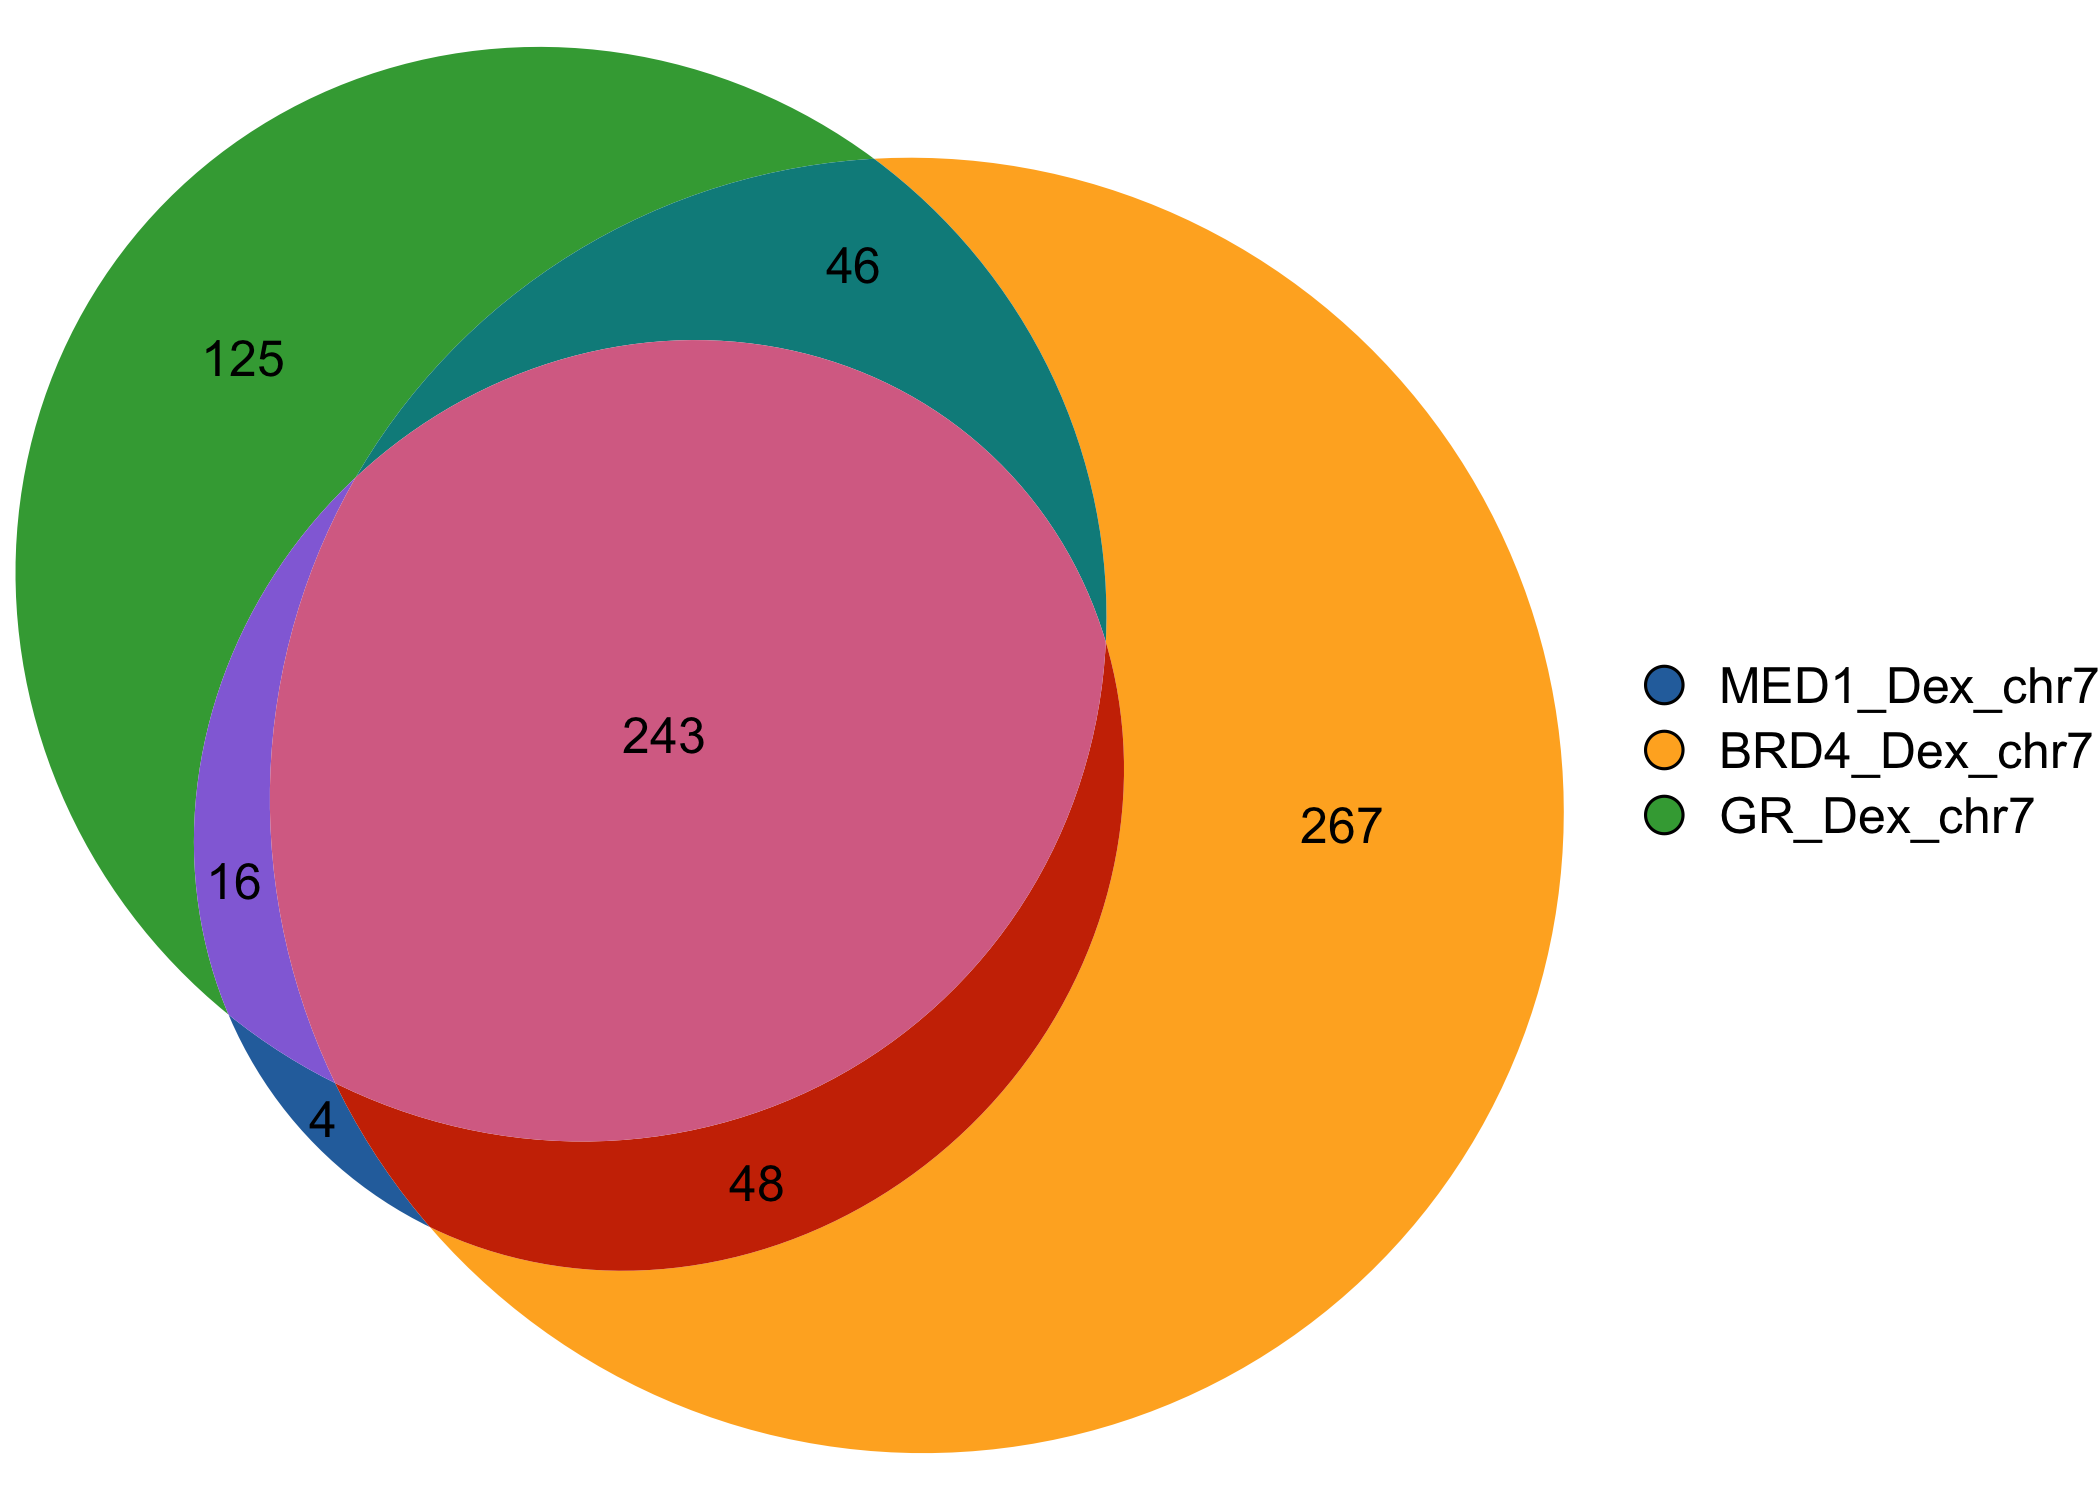
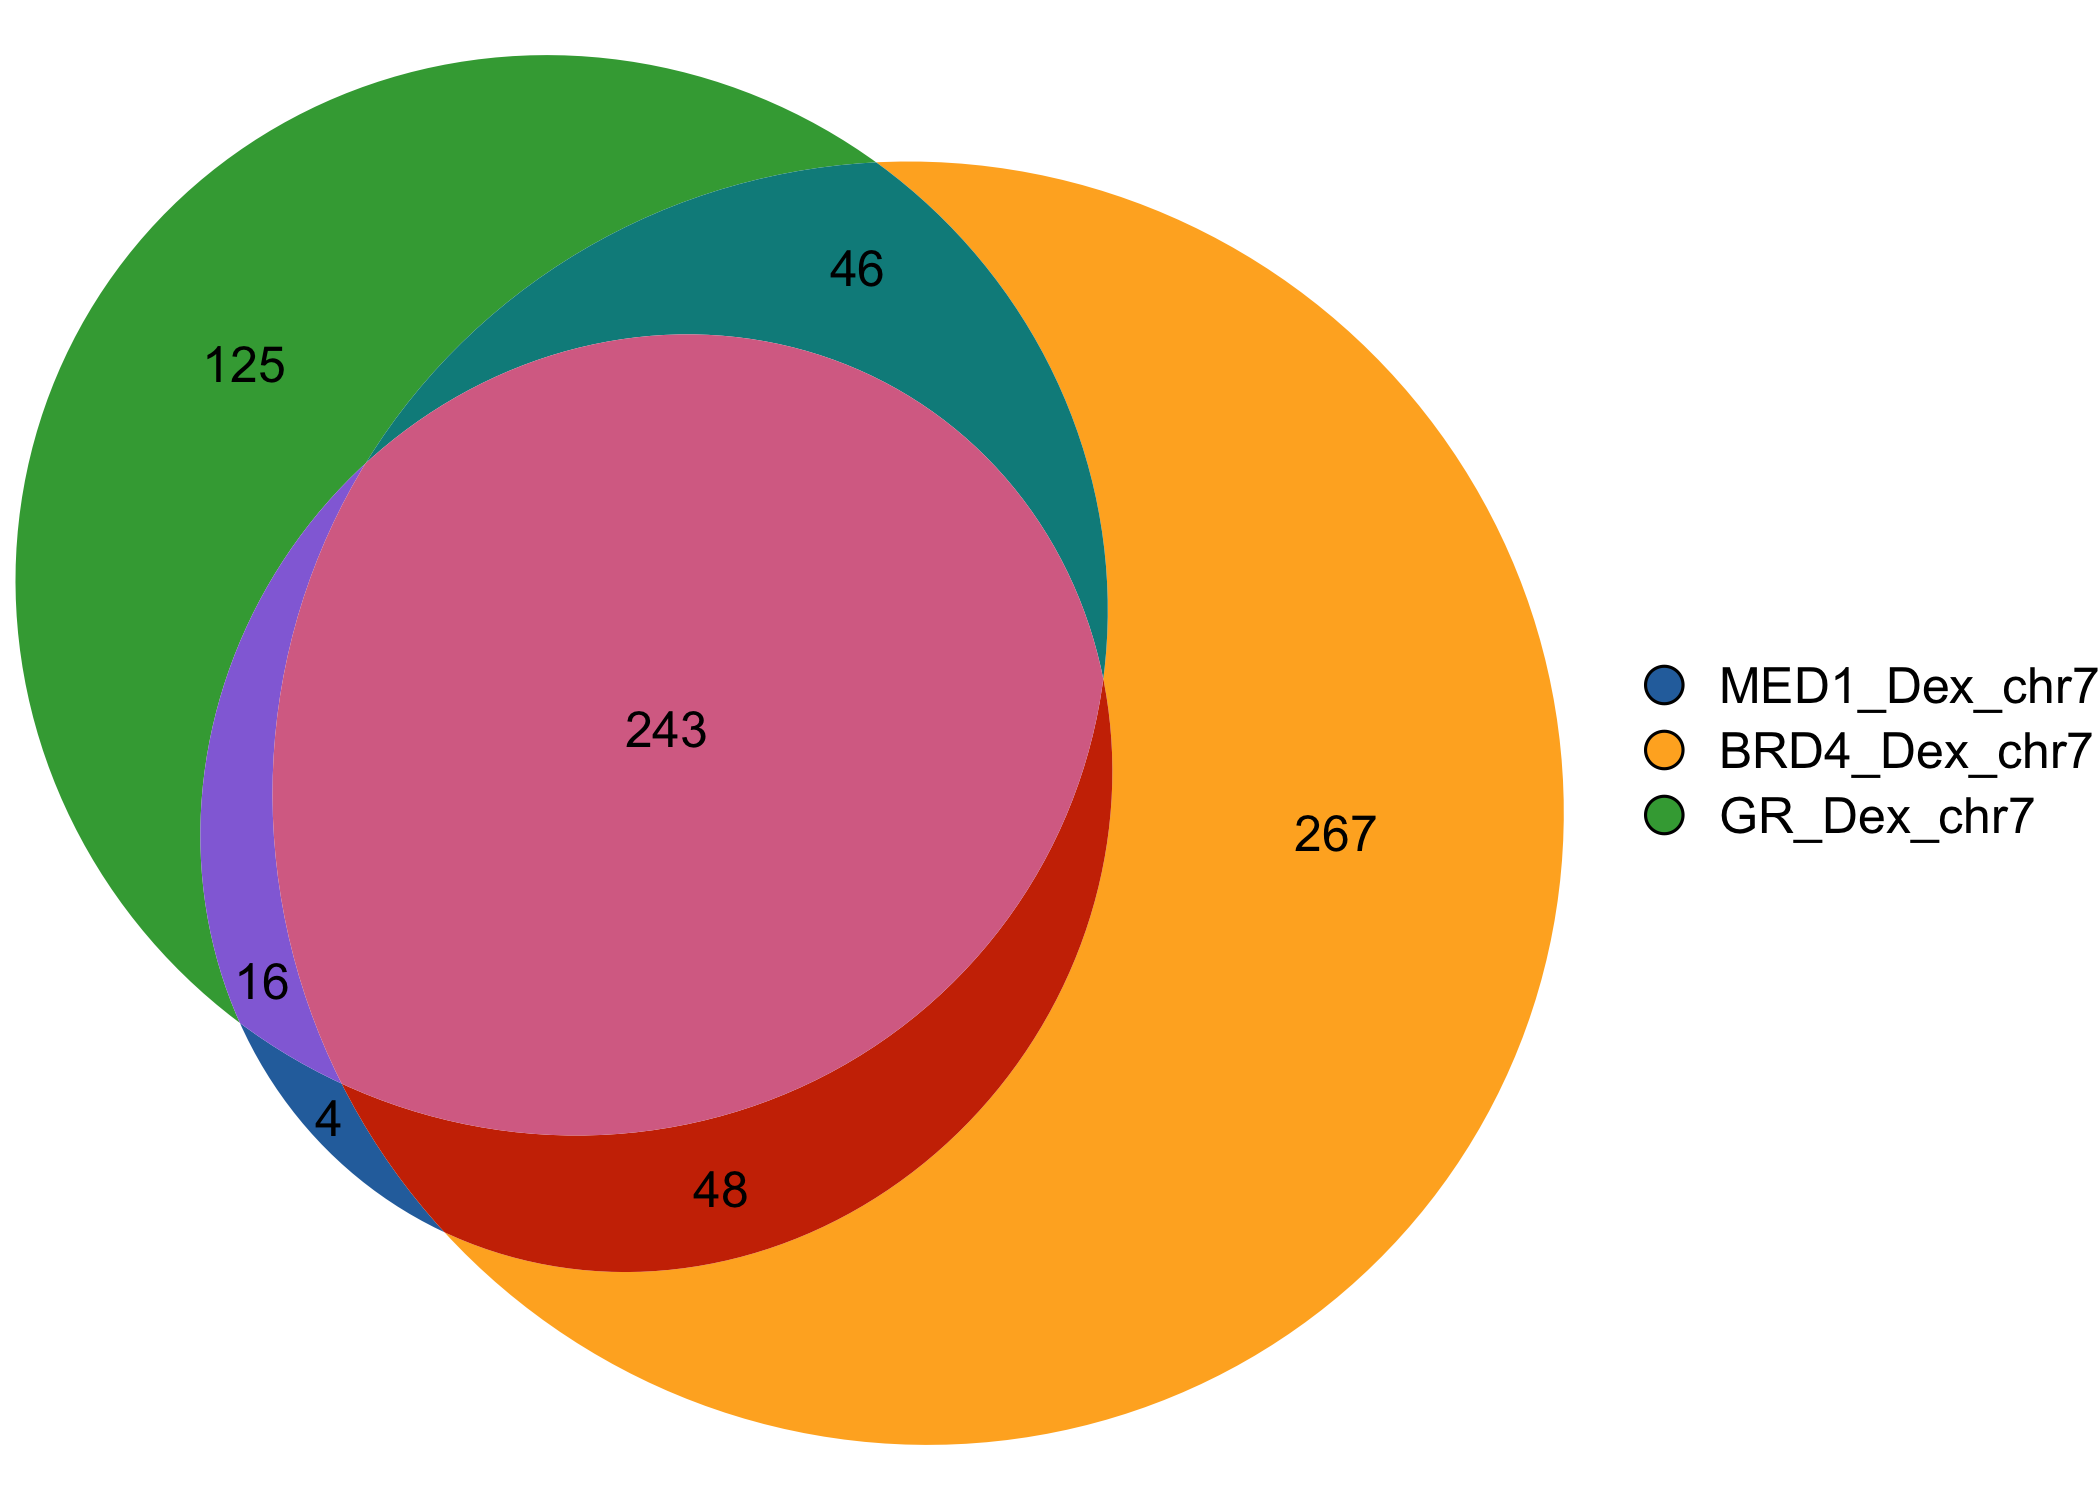
update new graphical abstract

diff --git a/README.md b/README.md
@@ -23,7 +23,7 @@ and produces clean, publication-ready figures.
 
 <p align="center">
 
-<img src="man/figures/20250827_graphical_abstract_v2.png" width="800"/>
+<img src="man/figures/Tav_graphical_abstract_v3_20251029.png" width="800"/>
 </p>
 
 ## Installation
